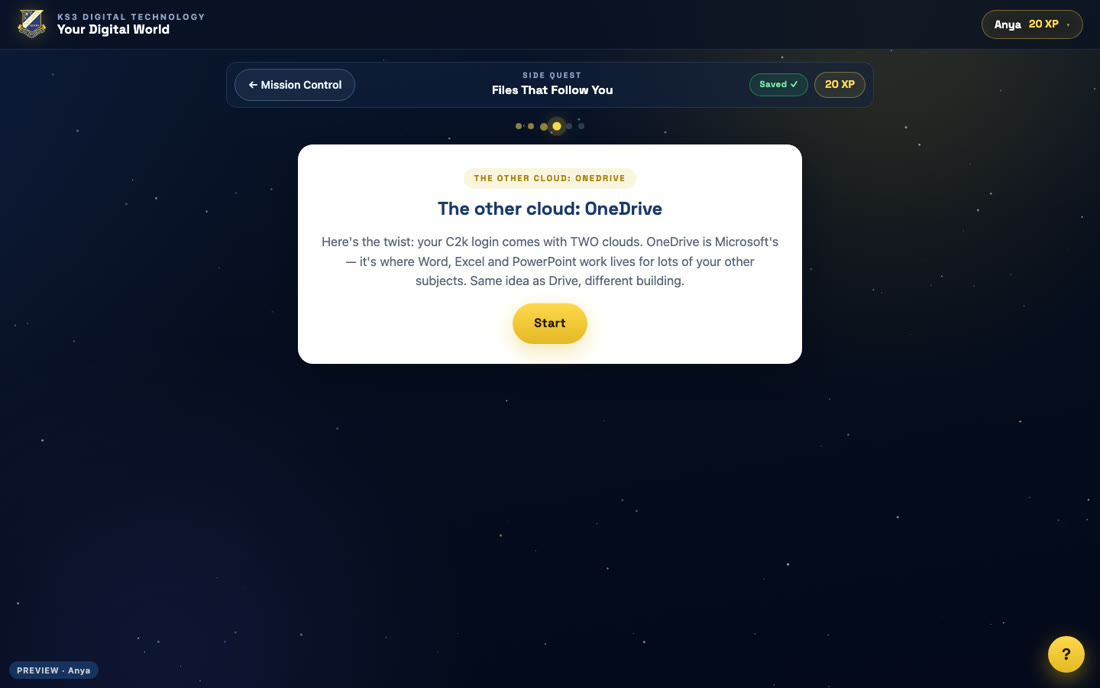
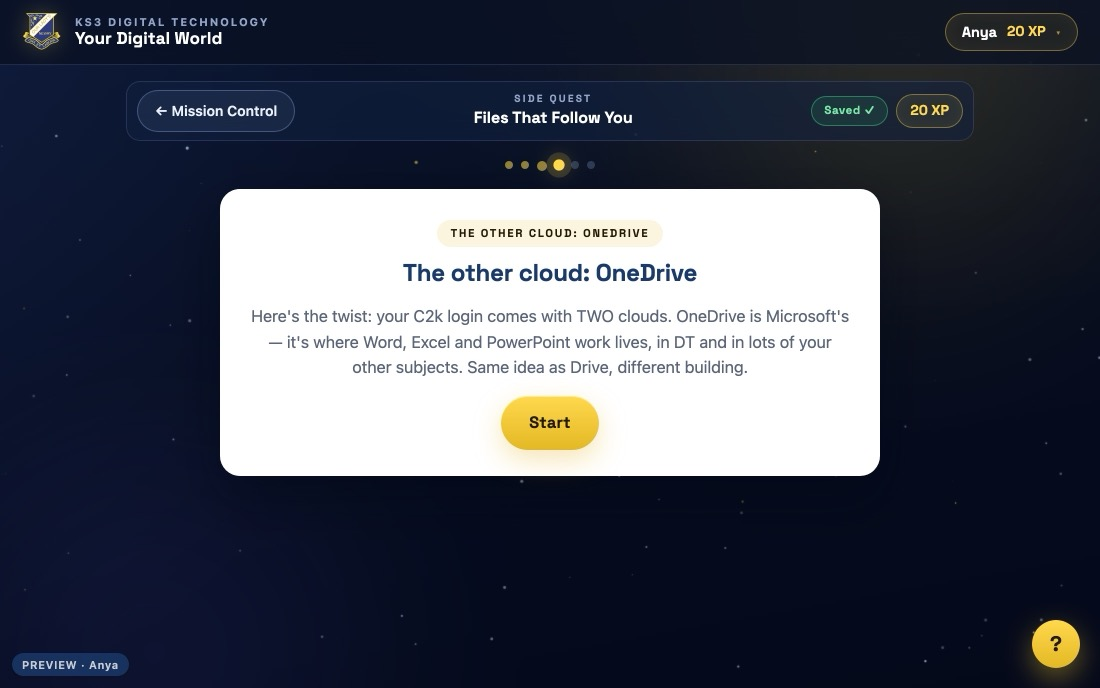
Both clouds get the DT Work folder, and neither is steered over the other
Amendment 1 to the side-quest spec, under his DFM 252 ruling: Microsoft-tool DT
work belongs in OneDrive, so OneDrive is not a tour with a tidy top level - it
carries the same School to DT Work spine, and the which-cloud rule becomes the
app-decides rule. The Drive card's 'Everything you make in DT lives here' dies.
The briefing stops saying 'your actual cloud' and stops implying the website
checks both, because it can only check one.

One sentence of the amendment's verbatim wording was split: it was 39 words
against a 34-word ceiling with its verb stranded from its subject. Same meaning,
three sentences, reported.

qa-cross-lesson gains section 8, which sweeps the over-steer from the whole
lesson rather than the sentence it was quoted from, with the pre-252 wordings as
its controls.

The brief screenshot of the OneDrive card was stale, so shoot-sq-onedrive.js
re-takes it and refuses to save unless it can prove it is standing on that exact
screen. It caught two of my own mistakes before it caught anything else.

The parked V52 PathB pair rebuilds byte-identical, so the paste is unchanged.

diff --git a/ks3-dt/tools/record-tutorial/shoot-sq-onedrive.js b/ks3-dt/tools/record-tutorial/shoot-sq-onedrive.js
@@ -1,0 +1,137 @@
+/* shoot-sq-onedrive.js — re-capture the ONE side-quest brief shot whose card changed.
+ *
+ * DFM 252 gave the OneDrive card a fourth step (DT Work, built in OneDrive too) and
+ * rewrote its which-cloud rule, so `04-onedrive.jpg` stopped showing what a pupil sees.
+ * Rule 17 applies to the pictures as much as the prose, and rule 36 makes the screenshots
+ * the most important part of a brief.
+ *
+ * DFM 225(b) is why this is a script and not a hand-taken screenshot: a capture FAILS
+ * LOUDLY when it has not reached the screen it names. The old deck capture photographed
+ * whatever was on screen and labelled it as the target. This one refuses to save unless
+ * the card really is the OneDrive card AND really carries all four steps, and it prints
+ * what it found when it will not.
+ *
+ * Needs the static server on 8096.
+ *   node shoot-sq-onedrive.js
+ */
+const path = require('path');
+const fs = require('fs');
+const { chromium } = require('playwright');
+
+const BASE = 'http://localhost:8096/ks3-dt/platform/index.html?class=Demo-8A&as=';
+const OUT = path.resolve(__dirname, '../../platform/assets/img/brief/j1-sq1/04-onedrive.jpg');
+const VIEW = { width: 1100, height: 688 };          // matches the shot it replaces
+const sleep = ms => new Promise(r => setTimeout(r, ms));
+
+/* THE WALK USES THE SHARED LIBRARY, NOT A SECOND DUMBER COPY.
+   DFM 225(b)'s cause was exactly a duplicated, dumber navigator; DFM 238(a)
+   made recognising a screen and acting on it ONE fact in ONE home. So this
+   script asks lib/walk-moves.js's detector where it is standing and runs that
+   kind's own mover — the same one sit-review, sit-wrongpath, qa-no-mute-locks
+   and qa-readability all run. */
+const WALK = require('./lib/walk-moves.js');
+
+(async () => {
+  const browser = await chromium.launch();
+  const page = await browser.newPage({ viewport: VIEW, deviceScaleFactor: 2 });
+  const errs = [];
+  page.on('console', m => { if (m.type() === 'error') errs.push(m.text()); });
+
+  await page.goto(BASE + 'anya', { waitUntil: 'domcontentloaded' });
+  await sleep(1400);
+  await page.evaluate(() => localStorage.clear());
+  await page.reload({ waitUntil: 'domcontentloaded' });
+  await sleep(2000);
+  /* Seed the world sit-review seeds: every lesson unlocked, pairing off, and
+     Lesson 1 already complete — which is the state a pupil is really in when
+     she opens this side quest. Without the unlock the tile is not on the board
+     at all, which is exactly what the arrival check below is for. */
+  await page.evaluate(() => {
+    const db = JSON.parse(localStorage.getItem('ks3dt-dev'));
+    const now = Math.floor((Date.now() - 1767225600000) / 60000);
+    db.locks = db.locks || {}; db.locks['Demo-8A'] = db.locks['Demo-8A'] || {};
+    ['1', '2', '3', '4', '5', 'S1'].forEach(n => { db.locks['Demo-8A'][n] = { u: now, on: 1 }; });
+    db.cfg = db.cfg || {}; db.cfg['Demo-8A'] = db.cfg['Demo-8A'] || {};
+    db.cfg['Demo-8A'].pairing = { on: 0 };
+    const pk = 'Demo-8A:anya.murphy@demo';
+    db.pupils = db.pupils || {};
+    db.pupils[pk] = Object.assign(db.pupils[pk] || { n: 'Anya Murphy', cn: '', j: 1, xp: 0, g: '' },
+      { L: { '1': [2, 10, 'sit1=1', '1', '222|1', 100, 10, 0, '', 0, 0] } });
+    localStorage.setItem('ks3dt-dev', JSON.stringify(db));
+  });
+  await page.reload({ waitUntil: 'domcontentloaded' });
+  await sleep(2400);
+  await page.evaluate(() => { const b = document.querySelector('.intro-skip'); if (b) b.click(); });
+  await sleep(700);
+  // open the side quest from the lesson board
+  const opened = await page.evaluate(() => {
+    const t = Array.from(document.querySelectorAll('.tile'))
+      .find(x => /Files That Follow You/i.test(x.textContent || ''));
+    if (t) { t.click(); return true; }
+    return false;
+  });
+  if (!opened) { console.error('FAILED: never found the side-quest tile on the board.'); await browser.close(); process.exit(1); }
+  await sleep(2500);
+
+  // walk forward until the app is standing on the OneDrive chunk, with its LAST step showing
+  await WALK.primeDevKeys(page, BASE);
+  let arrived = false;
+  for (let i = 0; i < 80; i++) {
+    const state = await page.evaluate(() => {
+      const host = document.querySelector('.chunk-host');
+      return { chunk: (window.App && App.state && App.state.chunks && App.state.chunks[App.state.chunkIdx] || {}).id || null,
+               text: host ? host.innerText : '' };
+    });
+    /* The shot this replaces is the chunk's INTRO CARD — the first screen of the
+       OneDrive half, which is what a teacher sees a pupil meet. The steps engine
+       shows one step at a time, so "the card with all four steps on it" is a
+       screen that does not exist; assuming it did is what sent the first version
+       of this script walking straight past its own target. */
+    if (state.chunk === 'sq-onedrive' && /Start/.test(state.text) && /TWO clouds/i.test(state.text)) { arrived = true; break; }
+    const st = await page.evaluate(WALK.detectKind);
+    const mv = st && WALK.MOVES[st.kind];
+    if (!mv) {
+      /* The briefing card TYPES ITSELF OUT, so for its first seconds there is no
+         control to press and no mover applies. That is a screen still settling,
+         not a dead end — wait and re-detect rather than declaring failure, which
+         is what the arrival check at the end is for. */
+      await sleep(900);
+      continue;
+    }
+    await page.evaluate(([src]) => { (new Function('return (' + src + ')')())(); }, [String(mv)]);
+    await sleep(WALK.SETTLE[st.kind] || 600);
+  }
+  if (!arrived) {
+    const w = await page.evaluate(WALK.whereAmI);
+    console.error('FAILED: the walk never reached the OneDrive card. It was standing at: ' + JSON.stringify(w));
+    await browser.close();
+    process.exit(1);
+  }
+
+  const text = await page.evaluate(() => (document.querySelector('.chunk-host') || {}).innerText || '');
+  /* THE ARRIVAL PREDICATE — the shot may only be taken while this is TRUE. */
+  const need = [
+    ['the card is the OneDrive card', /The other cloud: OneDrive/i],
+    ['it is the intro card, not a step', /\bStart\b/],
+    ['the DFM 252 intro wording is the one on screen', /in DT and in lots of your other\s+subjects/i],
+    ['and the pre-252 wording is gone', /^(?!.*for lots of your other subjects)/is]
+  ];
+  const missing = need.filter(([, rx]) => !rx.test(text)).map(([n]) => n);
+  if (missing.length) {
+    console.error('FAILED: not on the screen this shot is named for. Missing: ' + missing.join(', '));
+    console.error('--- what was actually on screen ---\n' + text.slice(0, 600));
+    await browser.close();
+    process.exit(1);
+  }
+
+  /* Full page, like the shot it replaces and like every other row of this
+     brief — the teacher is being shown the screen, not a cropped card. */
+  const png = OUT.replace(/\.jpg$/, '.png');
+  await page.screenshot({ path: png });
+  await browser.close();
+  if (errs.length) console.log('console errors during capture: ' + JSON.stringify(errs));
+  /* Say what was actually verified, not more (DFM 146a): the arrival predicate
+     proves this is the OneDrive INTRO card carrying the DFM 252 wording. */
+  console.log('captured — verified before the shutter: the OneDrive intro card, post-DFM-252 wording, pre-252 wording absent');
+  console.log('   ' + png + '   (convert to .jpg, which is what the brief references)');
+})();

diff --git a/ks3-dt/tools/record-tutorial/qa-cross-lesson.js b/ks3-dt/tools/record-tutorial/qa-cross-lesson.js
@@ -392,6 +392,69 @@ console.log('\n== 7. the side quest names ONE deadline, in every home it has =='
     'while homes that DO agree pass, whatever wording surrounds the fact (over-tightening guard)');
 }
 
+/* ------------------------------------------------------------------ *
+ * DFM 252 — BOTH CLOUDS CARRY THE SAME SPINE, AND NEITHER IS STEERED OVER
+ * THE OTHER. His ruling of 22 Aug: the app a file was made in decides its
+ * cloud; Word/Excel/PowerPoint work lives in OneDrive, Google-tool work in
+ * Google Drive; School -> DT Work is built in BOTH. The side quest's two
+ * cards are the only place a pupil is ever taught this, and they now state
+ * overlapping facts, so DFM 167(b) applies: one fact, held equal, or a
+ * harness fails. Controls both ways, including the exact over-steer he
+ * overruled.
+ * ------------------------------------------------------------------ */
+console.log('\n== 8. both clouds are first-class DT homes (DFM 252) ==');
+{
+  const sq = JSON.parse(fs.readFileSync(path.join(SRC, 'j1/lessons/j1-sq1.json'), 'utf8'));
+  const chunk = (id) => (sq.chunks || []).find(c => c.id === id) || { config: {} };
+  const drive = chunk('sq-drive').config, one = chunk('sq-onedrive').config;
+  const stepText = (cfg) => (cfg.steps || []).map(s => String(s.text || '')).join(' \n ');
+  const driveAll = stepText(drive), oneAll = stepText(one);
+
+  /* (b) the spine is built in BOTH clouds */
+  const buildsDTWork = (t) => /name (?:this one |it )?exactly:\s*DT Work/i.test(t);
+  check(buildsDTWork(driveAll), 'the Drive card builds DT Work inside School');
+  check(buildsDTWork(oneAll), 'the OneDrive card builds DT Work inside School TOO (his ruling)');
+  const buildsSchool = (t) => /name it exactly:\s*School/i.test(t);
+  check(buildsSchool(driveAll) && buildsSchool(oneAll), 'and both cards build the School folder above it');
+
+  /* (a) the app decides - stated once, and not contradicted anywhere */
+  check(/The app you made a file in tells you which cloud it lives in/i.test(oneAll),
+    'the which-cloud rule is the app-decides rule, in those words');
+  check(/Word, Excel or PowerPoint\s*(?:→|->)\s*OneDrive/i.test(oneAll),
+    'its Microsoft half names OneDrive');
+  check(/Google Docs\s*(?:→|->)\s*Google Drive/i.test(oneAll),
+    'its Google half names Google Drive');
+
+  /* THE OVER-STEER HE OVERRULED must be dead on every surface of the lesson,
+     not just the one sentence it was quoted from (DFM 150's sweep law). */
+  const whole = JSON.stringify(sq);
+  const STEER = [
+    [/everything you make in DT lives here/i, 'the Drive card\'s "Everything you make in DT lives here"'],
+    [/everything you make in DT\s*(?:→|->)\s*Google Drive/i, 'the old rule\'s "everything you make in DT -> Google Drive"']
+  ];
+  STEER.forEach(([rx, name]) => check(!rx.test(whole), 'the over-steer is gone: ' + name));
+
+  /* Neither cloud may be described as the one DT actually uses. */
+  check(/In DT you will use BOTH/i.test(oneAll),
+    'and the card says plainly that DT uses BOTH clouds');
+
+  /* The honest asymmetry (DFM 252d): only Drive is machine-checked, and the
+     briefing says so rather than implying both are. */
+  const briefLines = (chunk('sq-brief').config.lines || []).join(' ');
+  check(/check your Google Drive ones are really there/i.test(briefLines),
+    'the briefing names WHICH folders the website checks - the asymmetry is stated, not hidden');
+
+  /* Controls both ways (DFM 196). */
+  control(/everything you make in DT lives here/i.test(
+    'This is your DT home. Everything you make in DT lives here — and your teacher can find it.'),
+    'the pre-252 Drive sentence IS caught by the over-steer sweep');
+  control(!/name (?:this one |it )?exactly:\s*DT Work/i.test(
+    'Click + New → Folder and name it exactly: School. Now both of your clouds have the same tidy top level.'),
+    'the pre-252 OneDrive card, which stopped at School, FAILS the both-clouds spine check');
+  check(buildsDTWork('Open your School folder, then + New → Folder again, and name it exactly: DT Work.'),
+    'while the shipped OneDrive step passes it (over-tightening guard)');
+}
+
 console.log('\n=========================================');
 console.log(FAILS.length ? 'FAILURES:\n- ' + FAILS.join('\n- ') : 'ALL CROSS-LESSON CHECKS PASSED');
 process.exit(FAILS.length ? 1 : 0);
